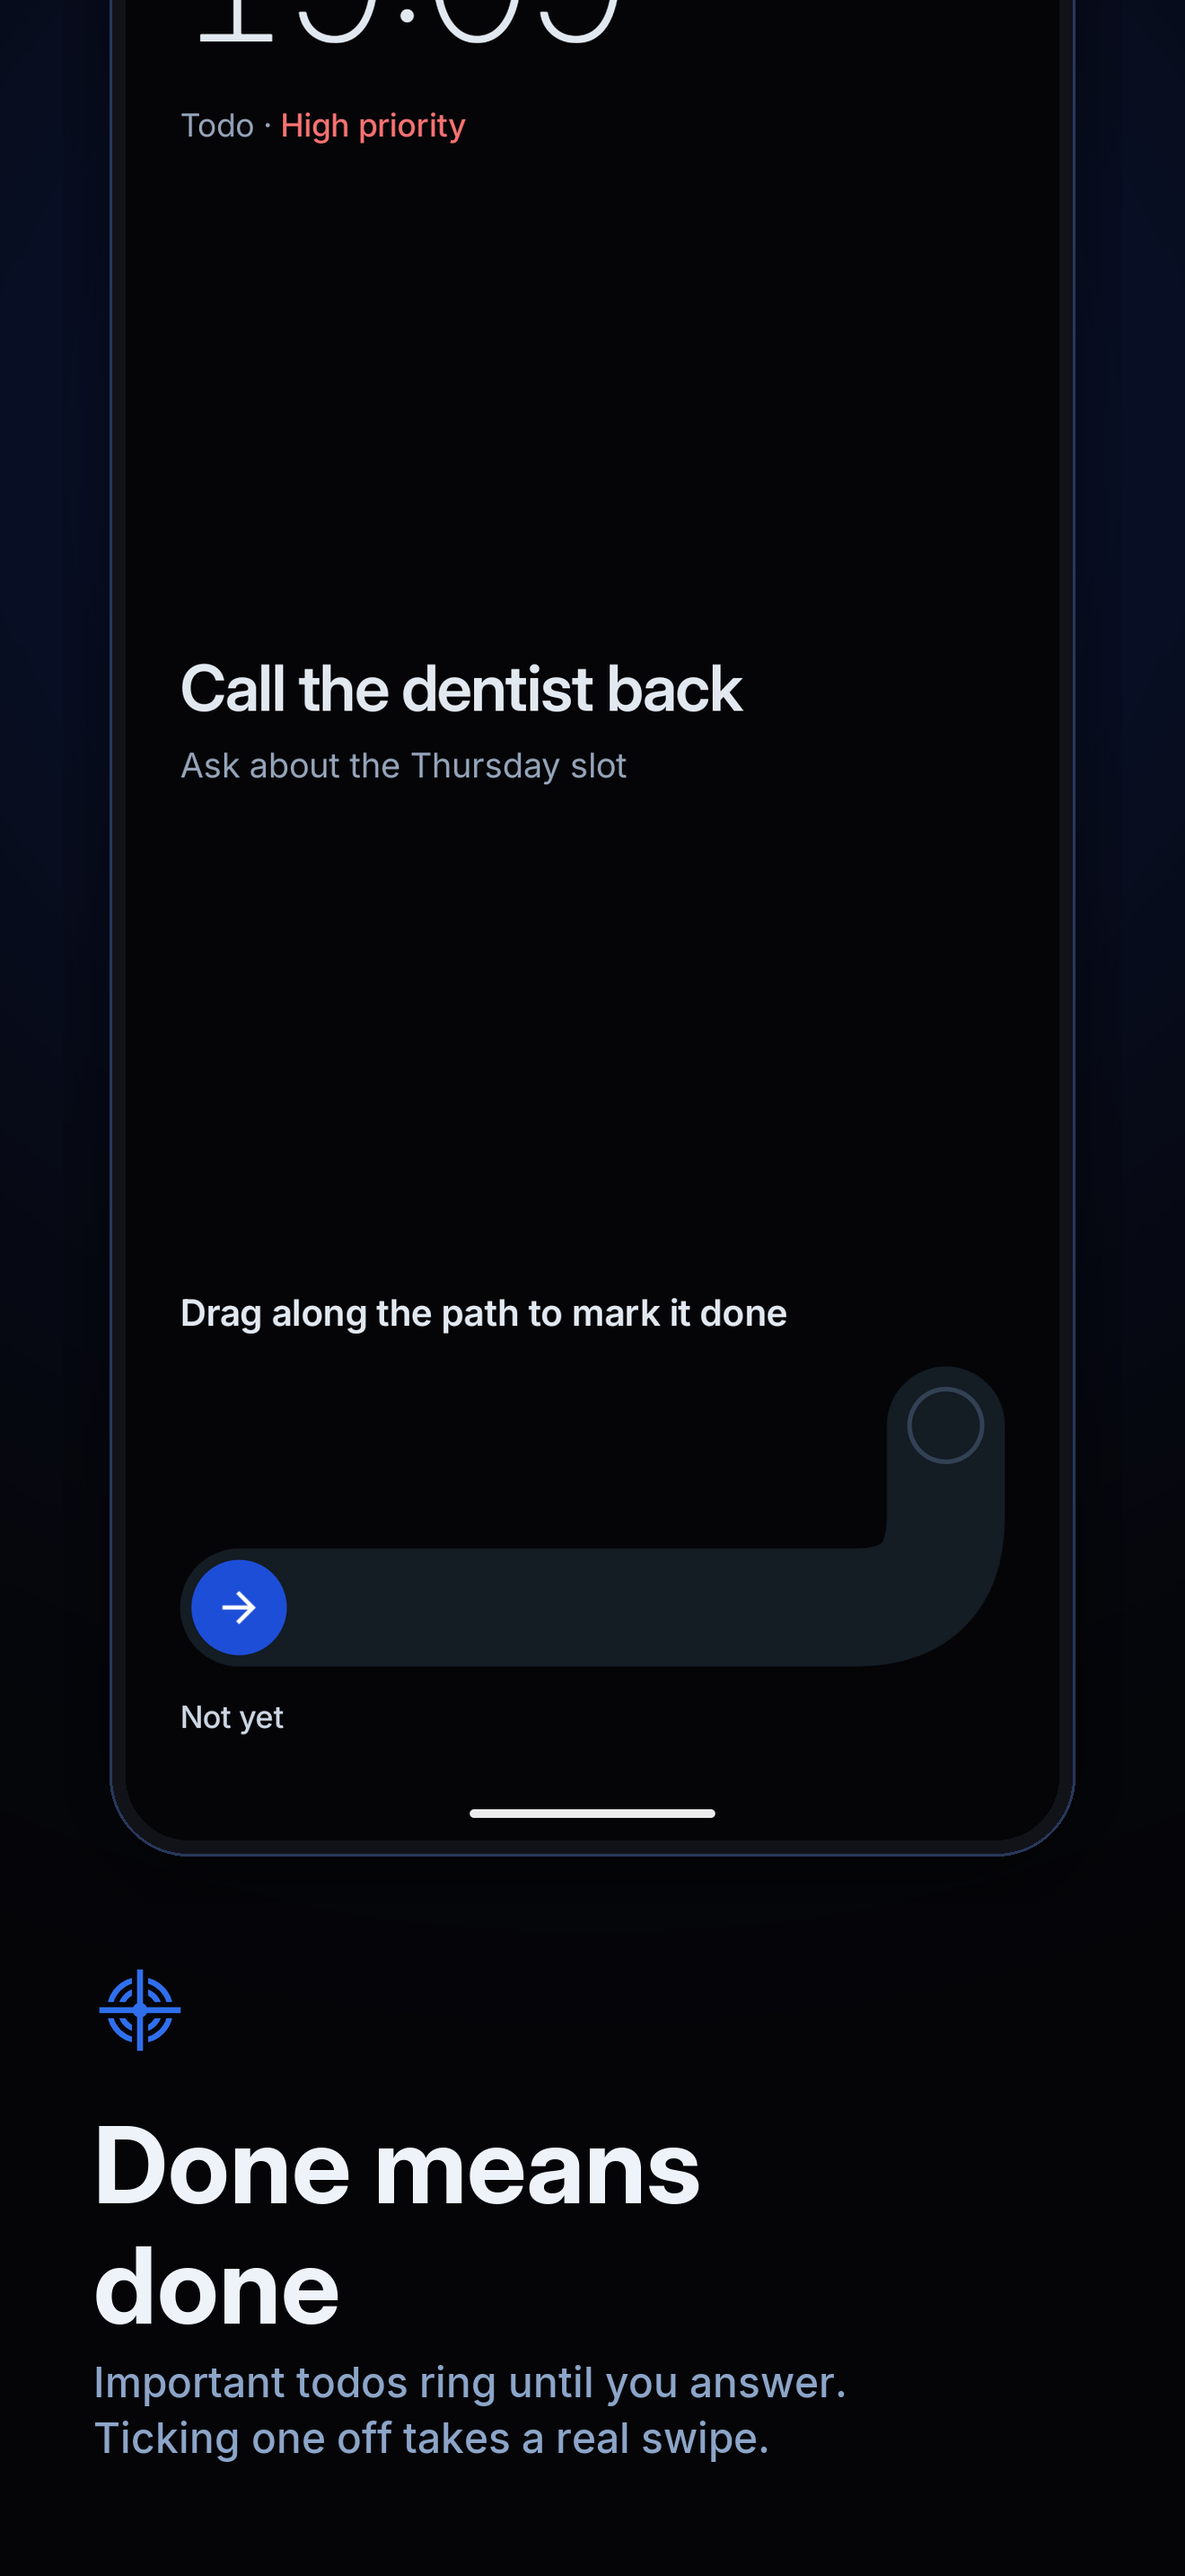
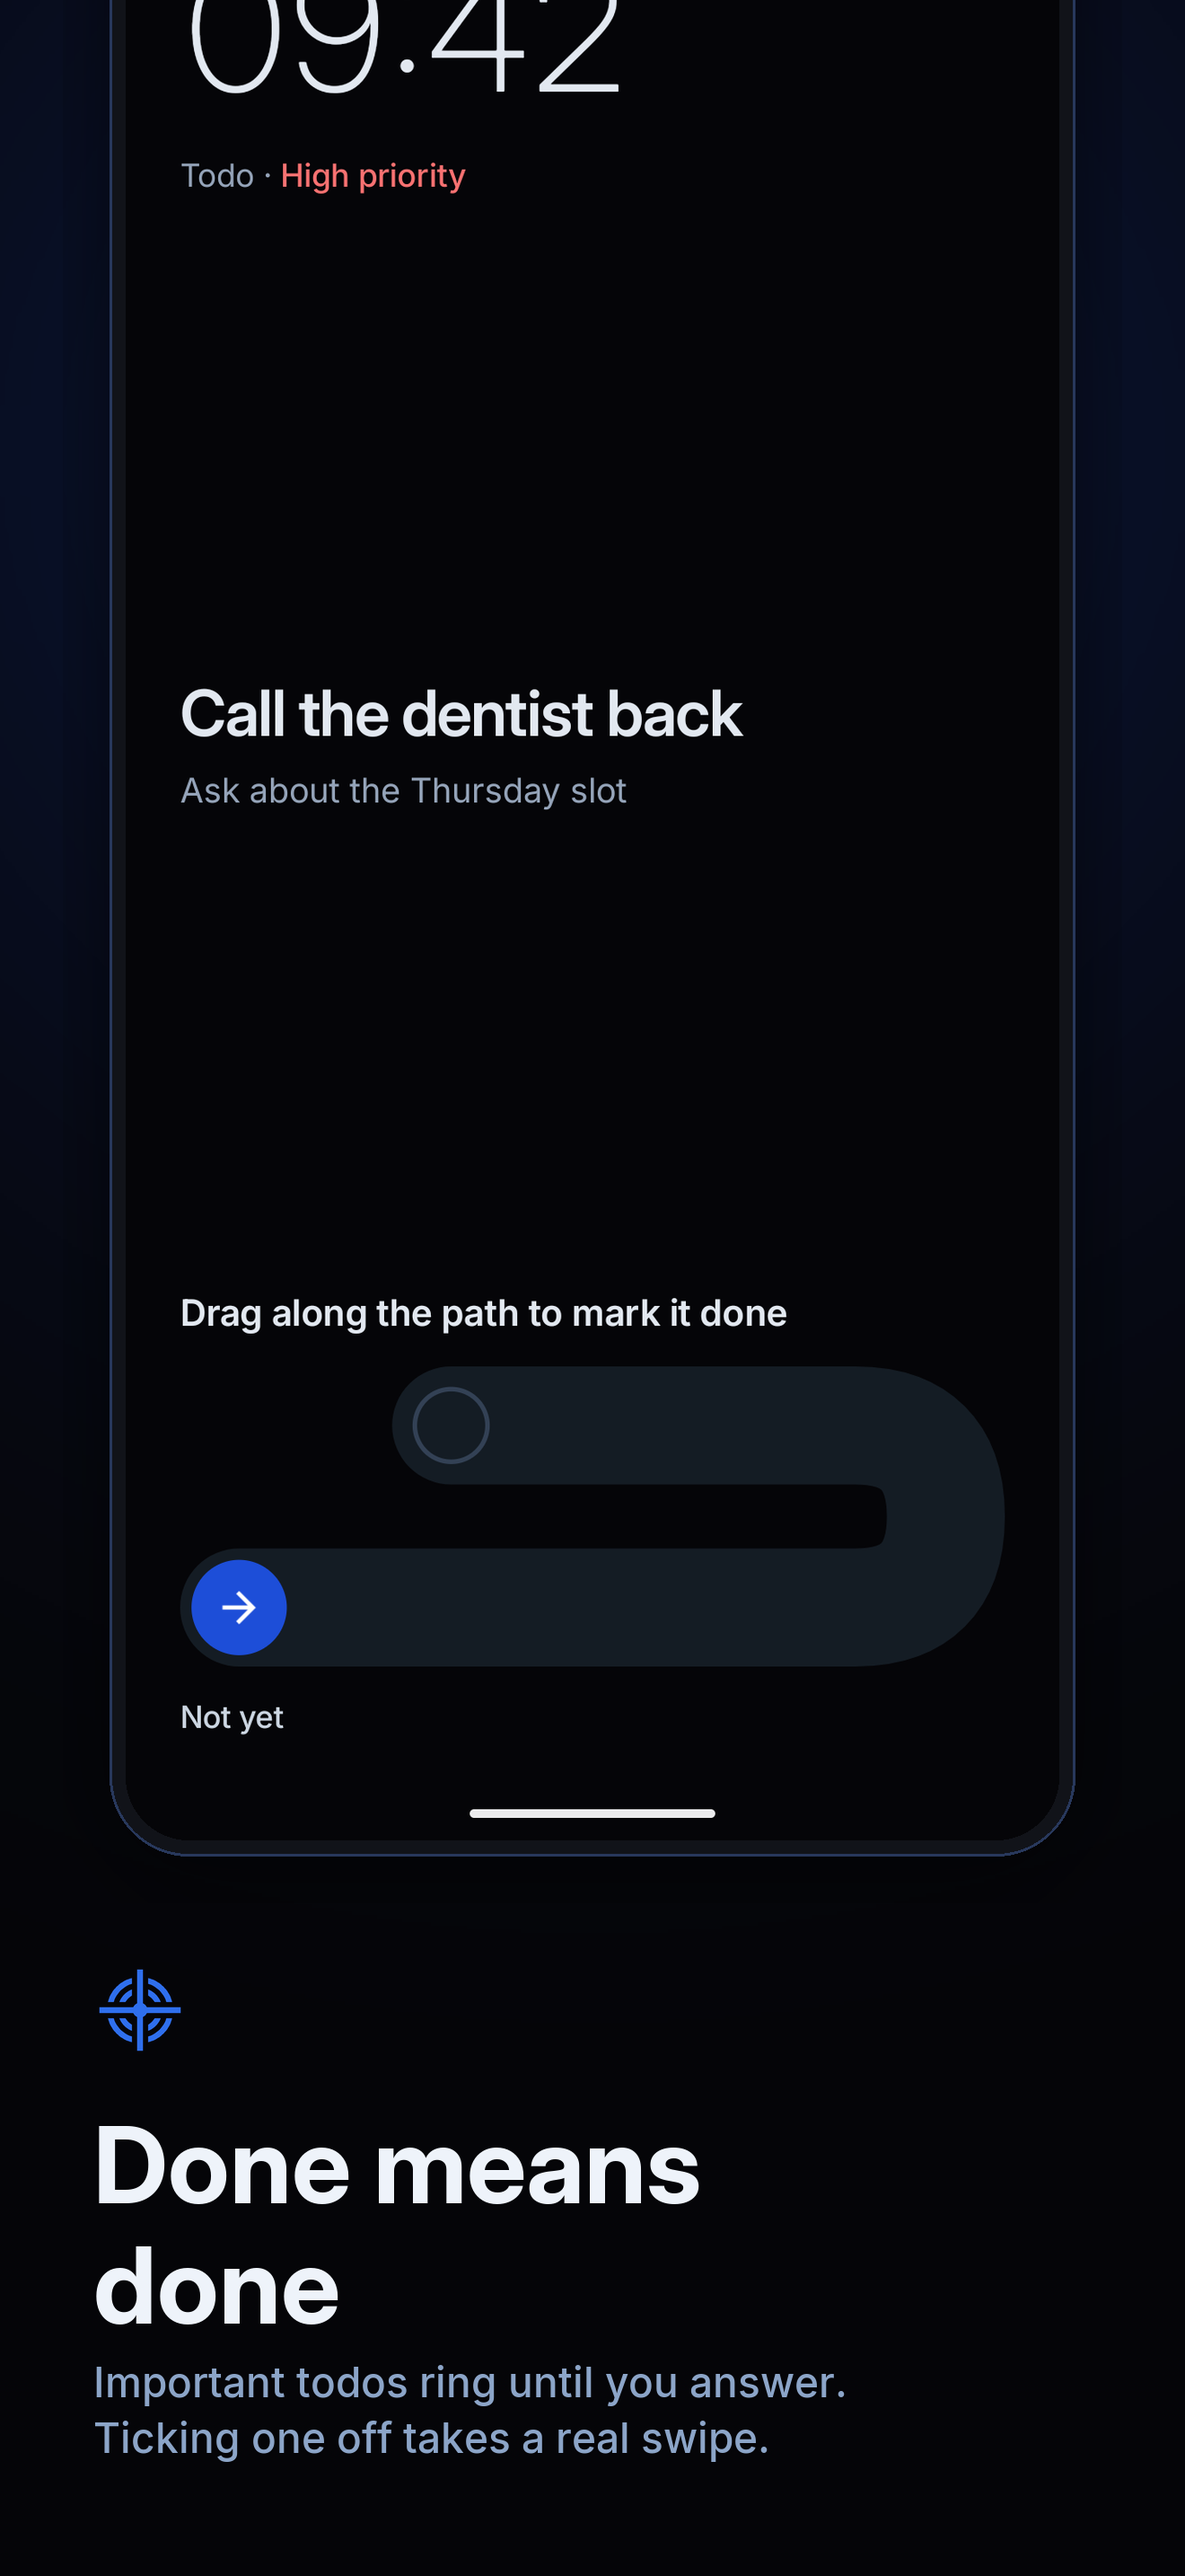
docs: Aero photo credit, new alarm and theme screenshots
The alarm shows the path with two bends, the theme picture shows the new
glass, and its caption is about your own themes. A person icon replaces the
sparkles in the README, and the theme screenshot sits in a centred row.

Changed region(s): [[0.3106, 0.5275, 0.8697, 0.5896], [0.1553, 0.2483, 0.6212, 0.3103], [0.1553, 0.0, 0.497, 0.0931]]

diff --git a/docs/index.html b/docs/index.html
@@ -503,9 +503,9 @@
         <li><figure>
           <picture>
             <source srcset="screenshots/theme.webp" type="image/webp">
-            <img src="screenshots/theme.png" alt="Home in the Frutiger Aero style, glass cards over a drawn sky with bubbles and green hills" width="1080" height="2400" loading="lazy" decoding="async">
+            <img src="screenshots/theme.png" alt="Home in a light custom theme with glass cards" width="1080" height="2400" loading="lazy" decoding="async">
           </picture>
-          <figcaption>Six themes, your own, or Frutiger Aero.</figcaption>
+          <figcaption>Ready-made themes, or your own.</figcaption>
         </figure></li>
       </ul>
     </div>
@@ -562,7 +562,7 @@
           <p>
             Pick which modules appear in the bottom bar and in which order, or switch one off
             completely. Six themes, two of them light, your own five colours saved under a name, and
-            a real Frutiger Aero style with glass, bubbles and green hills.
+            a real Frutiger Aero style: frosted glass and glossy buttons over a summer photo.
           </p>
         </li>
         <li>
@@ -705,6 +705,8 @@
       <li><a href="https://github.com/karOS555/FocusForcePlus/blob/main/LICENSE">GPLv3</a></li>
     </ul>
     <p>FocusForce+ is free software under the GNU General Public License v3.0.</p>
+    <p>The photo in the Aero style is <a href="https://commons.wikimedia.org/wiki/File:Wandern_am_Untreusee_20240608_HOF7926_RAW-Export.png">"Wandern am Untreusee"</a> by
+      PantheraLeo1359531, <a href="https://creativecommons.org/licenses/by/4.0/">CC BY 4.0</a>, cropped and scaled.</p>
   </div>
 </footer>
 

diff --git a/README.md b/README.md
@@ -40,7 +40,7 @@
 > [!NOTE]
 > FocusForce+ is in public beta. If something breaks or feels wrong on your phone, please [open an issue](../../issues).
 
-<h2 id="why-i-built-it"><sub><img src="docs/readme/icons/sparkles.svg" height="24" width="24" alt=""></sub> Why I built it</h2>
+<h2 id="why-i-built-it"><sub><img src="docs/readme/icons/user-round.svg" height="24" width="24" alt=""></sub> Why I built it</h2>
 
 **I built FocusForce+ for myself.** Every routine app, todo app and blocker I tried stopped working for me the moment motivation dipped, because everything in them could be swiped away, snoozed forever or switched off in two taps. So I wrote the app I needed: reminders that come back, routines that start with a real alarm, blocks that hold, and a little friction in front of every way out. I use it every day.
 
@@ -84,9 +84,7 @@ It is made for brains that need more structure than most apps assume: ADHD, habi
 
 ### Make it yours
 
-<img src="fastlane/metadata/android/en-US/images/phoneScreenshots/9.png" align="right" width="30%" alt="Home in the Frutiger Aero style: glass cards over a drawn sky with bubbles and green hills">
-
-- Six themes or your own colours, saved under a name. **Aero** is a real Frutiger Aero style: glass, gloss, bubbles and green hills, drawn by the app itself.
+- Six themes or your own colours, saved under a name. **Aero** is a real Frutiger Aero style: frosted glass, glossy see-through buttons and a summer photo of a green hill with soap bubbles behind everything.
 - Choose which modules sit in the bottom bar, in which order, or switch a module off.
 - Widgets for today, quick focus and a list to tick off.
 - Your calendar on Home, todos with a date in it, and blocking during events.
@@ -94,9 +92,11 @@ It is made for brains that need more structure than most apps assume: ADHD, habi
 - Share text from any app to make a todo or list items; `focusforceplus://` links start things from Tasker, shortcuts or NFC tags (off until you switch them on).
 - A backup into a folder every night, a file by hand, and an import you can undo.
 
-Everything stays on your phone. There is no account, no cloud, and the app has no internet permission.
+<p align="center">
+<a href="fastlane/metadata/android/en-US/images/phoneScreenshots/9.png"><img src="fastlane/metadata/android/en-US/images/phoneScreenshots/9.png" width="30%" alt="Home in a light custom theme with glass cards"></a>
+</p>
 
-<br clear="right"/>
+Everything stays on your phone. There is no account, no cloud, and the app has no internet permission.
 
 <h2 id="how-it-holds-you-to-it"><sub><img src="docs/readme/icons/lock-keyhole.svg" height="24" width="24" alt=""></sub> How it holds you to it</h2>
 
@@ -203,6 +203,8 @@ The code is written from scratch, but some ideas come from these projects:
 - [MindMaster](https://github.com/ArmanKhanTech/MindMaster) by ArmanKhanTech, for blocking modes and Kotlin patterns
 - [Curbox / DigiPaws](https://github.com/nethical6/digipaws) by nethical6, for blocking ideas
 - [Routinery](https://play.google.com/store/apps/details?id=com.routinery.routinery), for how a running routine should feel
+
+The photo behind the Aero style, also in its screenshot, is ["Wandern am Untreusee 20240608 HOF7926"](https://commons.wikimedia.org/wiki/File:Wandern_am_Untreusee_20240608_HOF7926_RAW-Export.png) by PantheraLeo1359531, used under [CC BY 4.0](https://creativecommons.org/licenses/by/4.0/), cropped and scaled, with bubbles drawn over it in the app.
 
 Icons in this README are from [Lucide](https://github.com/lucide-icons/lucide), used under the ISC License.
 

diff --git a/CHANGELOG.md b/CHANGELOG.md
@@ -2,7 +2,7 @@
 
 All notable changes to FocusForce+ are recorded here. Dates are ISO (YYYY-MM-DD).
 
-## [0.9.5-beta] - 2026-11-18
+## [0.9.5-beta] - 2026-11-19
 
 The last big update before 1.0: a new look, a home screen that shows your day in one list, speed bumps, lists that work with todos and routines, your calendar and tasks apps, widgets, and a blocker that can skip just Reels and Shorts. 0.9.4-beta was never released as an APK, so its changes arrive with this version as well.
 
@@ -20,7 +20,7 @@ The last big update before 1.0: a new look, a home screen that shows your day in
 - **Duplicate routines and reuse steps (#4).** Long-press a routine to duplicate it, copy steps from another routine, or start from a few common ones. Todos, focus sessions and lists can be duplicated too
 - **Routines** set their own heads-up time (or none), can switch on Do Not Disturb, and can block only some groups, like focus sessions
 - **A trash** for deleted todos, routines, focus sessions and lists, kept for as long as you choose
-- **Themes:** six ready-made ones, two of them light, or your own five colours, saved under a name. **Aero** is a real Frutiger Aero style: glass cards, glossy buttons, and a sky with bubbles and green hills drawn by the app itself. Copy, send or paste a theme as text
+- **Themes:** six ready-made ones, two of them light, or your own five colours, saved under a name. **Aero** is a real Frutiger Aero style: frosted glass that blurs what is behind it, glossy see-through buttons, text with a soft glow, and a summer photo of a green hill with soap bubbles behind everything (photo by PantheraLeo1359531, CC BY 4.0). Copy, send or paste a theme as text
 - **Sharing and start links.** Share text from any app to make a todo or list items. `focusforceplus://` links start focus or a routine, or add a todo or list items, from Tasker, shortcuts or NFC tags. They are off until you switch them on and can only start and add
 - **Nightly backups** into a folder you choose, keeping the newest 3 to 30 files. An import can be undone: what was in the app before is kept
 - Icons for todos, focus sessions, lists and blocks, shown in their notifications too. Every module has its own status-bar glyph
